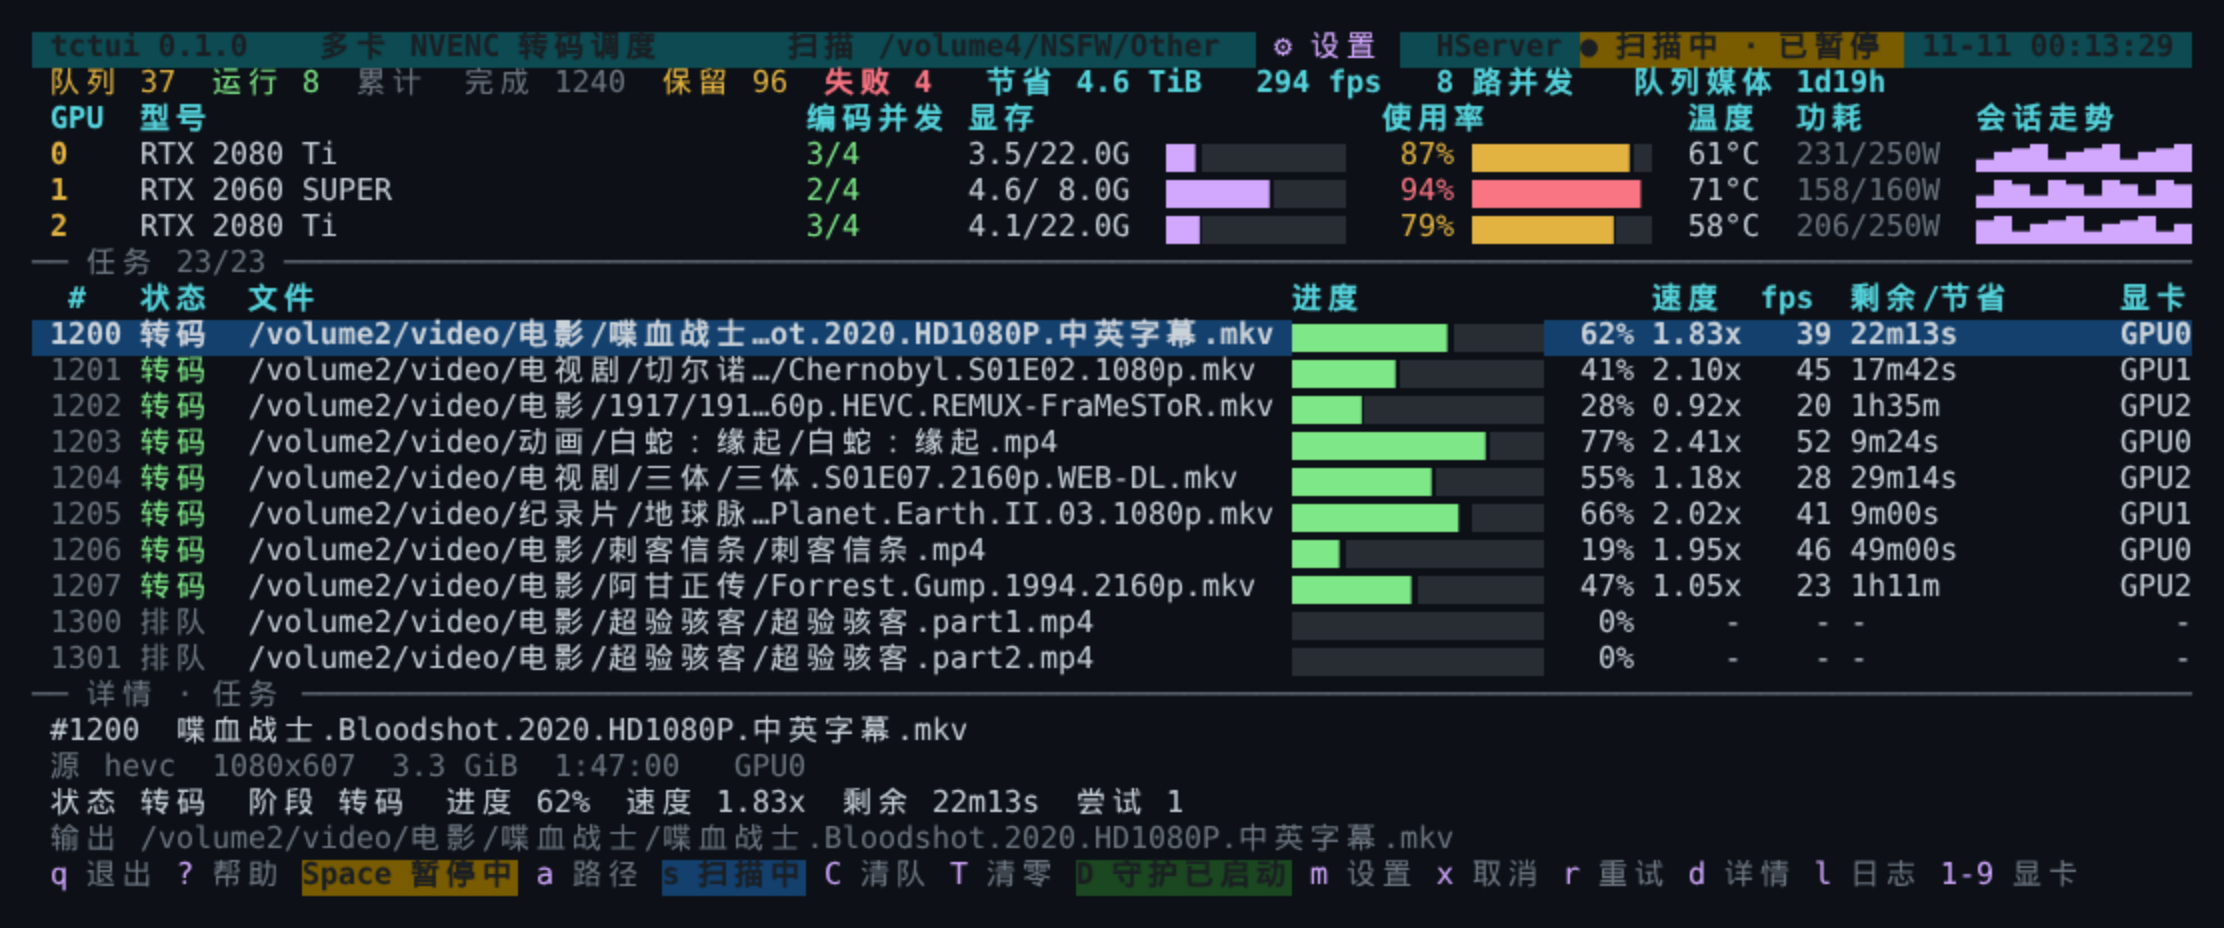
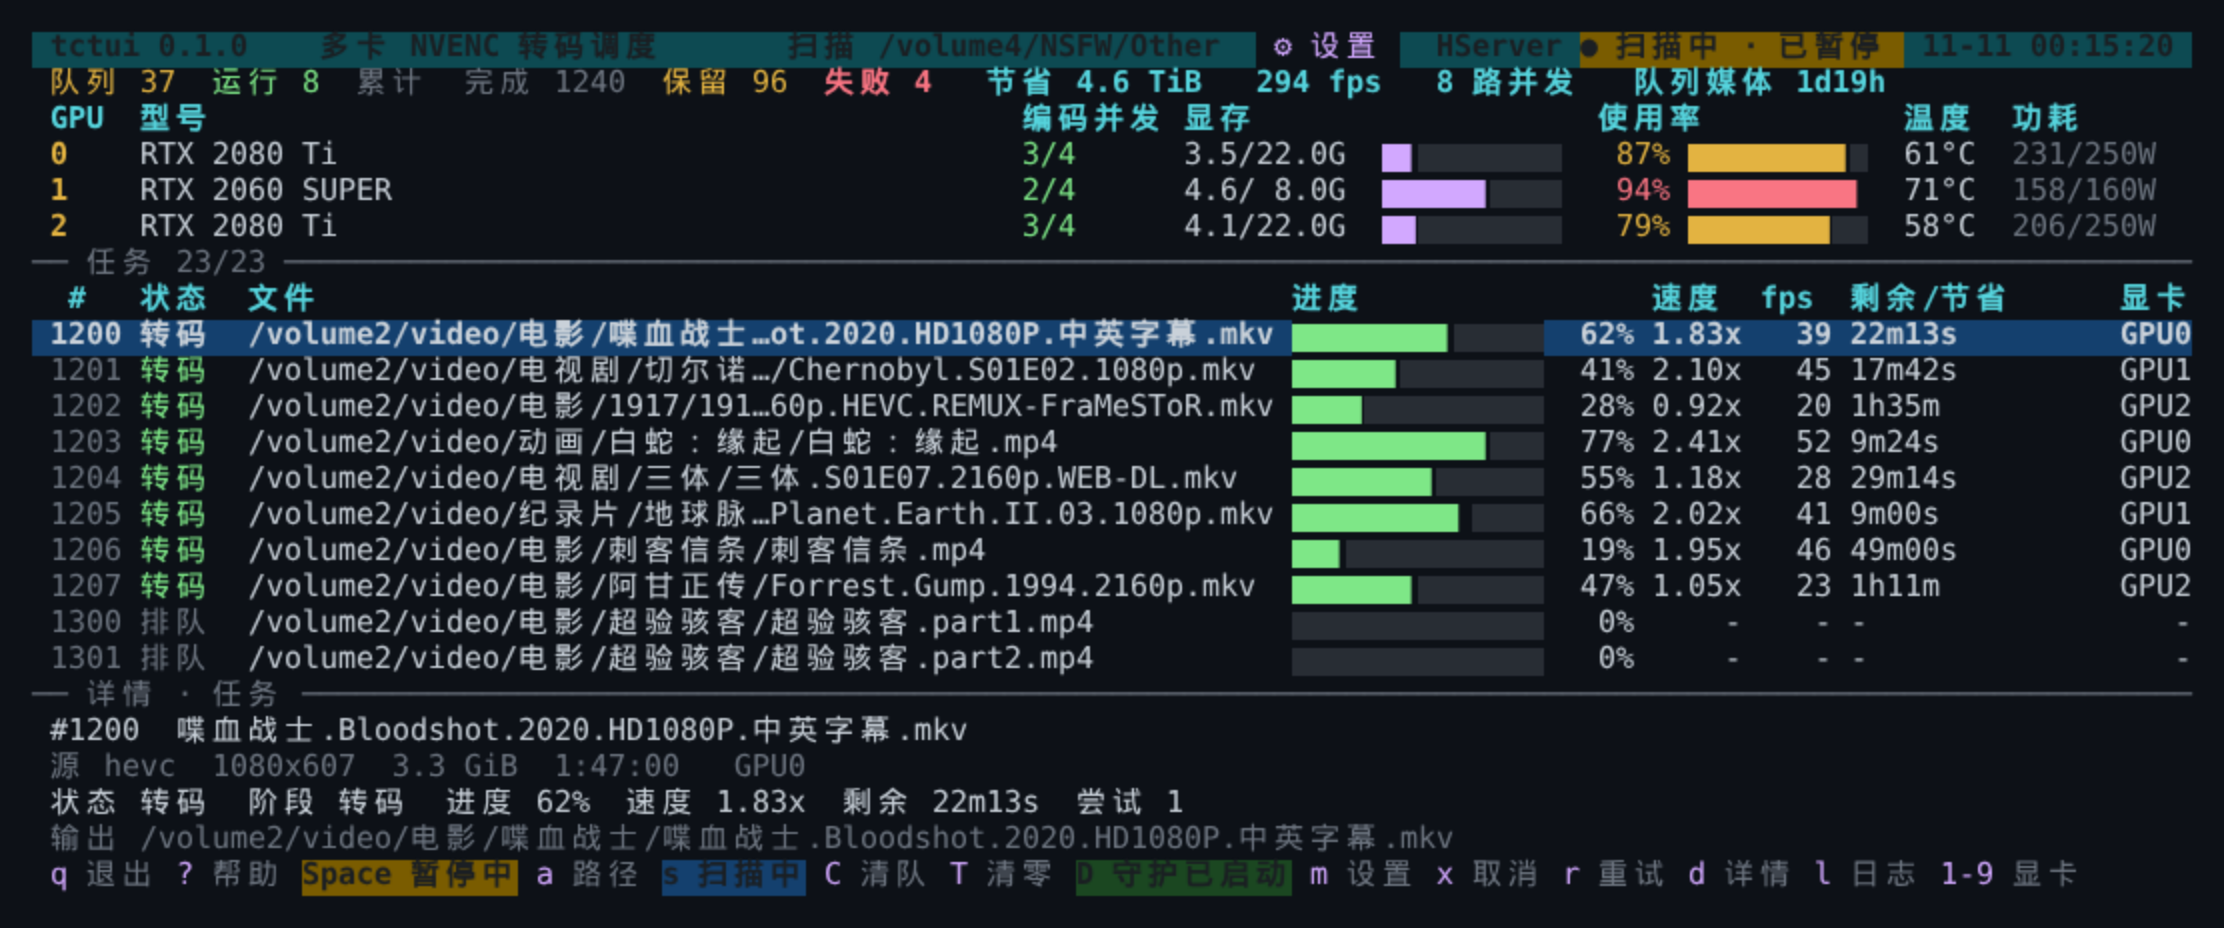
Remove per-GPU session sparkline column

Changed region(s): [[0.3413, 0.0938, 0.9928, 0.2812]]

diff --git a/lib/tctui/ui.py b/lib/tctui/ui.py
@@ -397,7 +397,6 @@ class App:
         self.last_refresh = 0.0
         self.log_scroll = 0
         self.refresh_seconds = float(cfg.get("ui.refresh_seconds") or 1.0)
-        self.spark_n = int(cfg.get("ui.sparkline_points") or 40)
         self._db = None
 
     # -------------------------------------------------------------- data
@@ -431,7 +430,6 @@ class App:
             return
         db = self.db()
         v.gpus = self.monitor.get()
-        v.hist = {}
         v.hb = util.read_json(self.cfg.heartbeat_path(), {}) or {}
         v.daemon_alive = bool(v.hb.get("pid") and util.pid_alive(v.hb.get("pid")))
         if not db:
@@ -452,8 +450,6 @@ class App:
         v.queued_media = db.queue_media_seconds()
         v.fleet = db.fleet_history(600, 120)
         v.running_fps = db.running_fps()[0]
-        for g in v.gpus:
-            v.hist[g["index"]] = db.gpu_history(g["index"], 300, self.spark_n)
         if self.sel_id is not None:
             for i, j in enumerate(self.visible_jobs()):
                 if j["id"] == self.sel_id:
@@ -535,11 +531,6 @@ class App:
                        "error": "转码失败: FFmpeg退出码 1", "finished": now - 120, "gpu": 1})
         v.hb = {"pid": 4242, "ts": now, "paused": False, "busy": ""}
         v.daemon_alive = True
-        for g in v.gpus:
-            base = g["util"]
-            v.hist[g["index"]] = [{"util": util.clamp(base + (i * 7 % 23) - 11, 0, 100),
-                                   "enc": 1 + (i * 5 + g["index"]) % max(1, g["enc_sessions"] + 1)}
-                                  for i in range(self.spark_n)]
         v.fleet = [{"fps": 180 + (i * 13 % 40) - 20, "running": 8, "queued": 20} for i in range(60)]
         v.events = [{"ts": now - i * 40, "level": "info", "msg": m} for i, m in enumerate([
             "启动 #1207 GPU0 刺客信条.mp4 (3.2 GiB)",
@@ -721,11 +712,10 @@ class App:
         v = self.view
         narrow = w < 92
         compact = w < 84            # too tight for bars: text only
-        spark_w = 12 if w >= 118 else 0
         chip = not narrow
         mem_bar_w = 8 if narrow else 10
         util_bar_w = 8 if narrow else 10
-        right = w - 2 - spark_w
+        right = w - 2
         pw_x = right - 8
         temp_x = pw_x - 6
         util_x = temp_x - (4 + 1 + util_bar_w + 2)
@@ -750,8 +740,6 @@ class App:
         scr.put(y, temp_x, "温度", S["head"])
         if not narrow:
             scr.put(y, pw_x, "功耗", S["head"])
-        if spark_w:
-            scr.put(y, right + 2, util.pad_disp("会话走势", spark_w), S["head"])
         y += 1
         if not v.gpus:
             scr.put(y, 2, "未检测到 NVIDIA 显卡 (nvidia-smi 不可用) — 启用 CPU 回退时用 libx265 串行处理",
@@ -800,13 +788,6 @@ class App:
                 pl = g.get("power_limit")
                 if pw is not None and pl:
                     scr.put(y, pw_x, "%3.0f/%3.0fW" % (pw, pl), S["dim"])
-            if spark_w:
-                # sparkline = *our* encode sessions (miner traffic would flatten a
-                # GPU-util graph to 100% and tell us nothing)
-                vals = [float(p.get("enc") or 0) for p in (v.hist.get(idx) or [])]
-                busy = any(v > 0 for v in vals)
-                spark = self._spark(vals, spark_w, floor=1.0)
-                scr.put(y, right + 2, spark, S["accent"] if busy else S["dim"])
             self.hits["gpu"][y] = idx
             y += 1
         return y

diff --git a/lib/tctui/config.py b/lib/tctui/config.py
@@ -104,7 +104,6 @@ DEFAULTS = {
         "host": "",
         "mouse": True,
         "refresh_seconds": 1.0,
-        "sparkline_points": 40,
         "log_tail_lines": 8,
         "theme": "nvtop",
     },

diff --git a/README.md b/README.md
@@ -97,8 +97,7 @@ tctui daemon --start  # 或者界面里按 D
 ![界面预览](docs/preview.png)
 
 上图为真实运行状态：11 个任务（8 路运行 + 3 排队），3 张卡各自的编码并发（正在用 / 调度上限）、
-显存 / 利用率 / 温度 / 功耗，最右边「会话走势」是每张卡最近约 5 分钟的编码会话数
-（全 0 时显示为一条暗色底线 = 空闲），底部是选中任务详情与最近事件。
+显存 / 利用率 / 温度 / 功耗，底部是选中任务详情与最近事件。
 
 ```bash
 ./tctui scan /volume1/docker/ffmpeg-tui/testdata   # 只入队，不启动界面

diff --git a/CONFIG.md b/CONFIG.md
@@ -170,7 +170,6 @@ cd /volume1/docker/ffmpeg-tui
 | `ui.host` | 空=主机名 | 标题栏显示的名字 |
 | `ui.mouse` | `true` | 鼠标支持；想用终端原生选择/复制文字时设 false（重启界面生效） |
 | `ui.refresh_seconds` | `1.0` | 界面刷新 |
-| `ui.sparkline_points` | `40` | 显卡走势图点数 |
 | `ui.log_tail_lines` | `8` | 详情页日志行数 |
 
 ---
